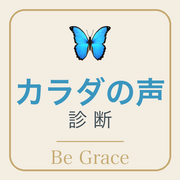
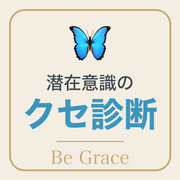
アイコンの文字を「カラダの声 診断」→「潜在意識の クセ診断」に変更

Changed region(s): [[0.0833, 0.3889, 0.9167, 0.7222]]

diff --git a/index.html b/index.html
@@ -6,9 +6,9 @@
 <title>潜在意識のクセ診断 — 本音をカラダが教えてくれる</title>
 <!-- ホーム画面に追加したときの、アイコンと名前 -->
 <meta name="theme-color" content="#f8eef0" />
-<link rel="manifest" href="./manifest.webmanifest" />
-<link rel="icon" href="./icon-192.png" />
-<link rel="apple-touch-icon" href="./apple-touch-icon.png" />
+<link rel="manifest" href="./manifest.webmanifest?v=2" />
+<link rel="icon" href="./icon-192.png?v=2" />
+<link rel="apple-touch-icon" href="./apple-touch-icon.png?v=2" />
 <meta name="apple-mobile-web-app-capable" content="yes" />
 <meta name="mobile-web-app-capable" content="yes" />
 <meta name="apple-mobile-web-app-status-bar-style" content="default" />
